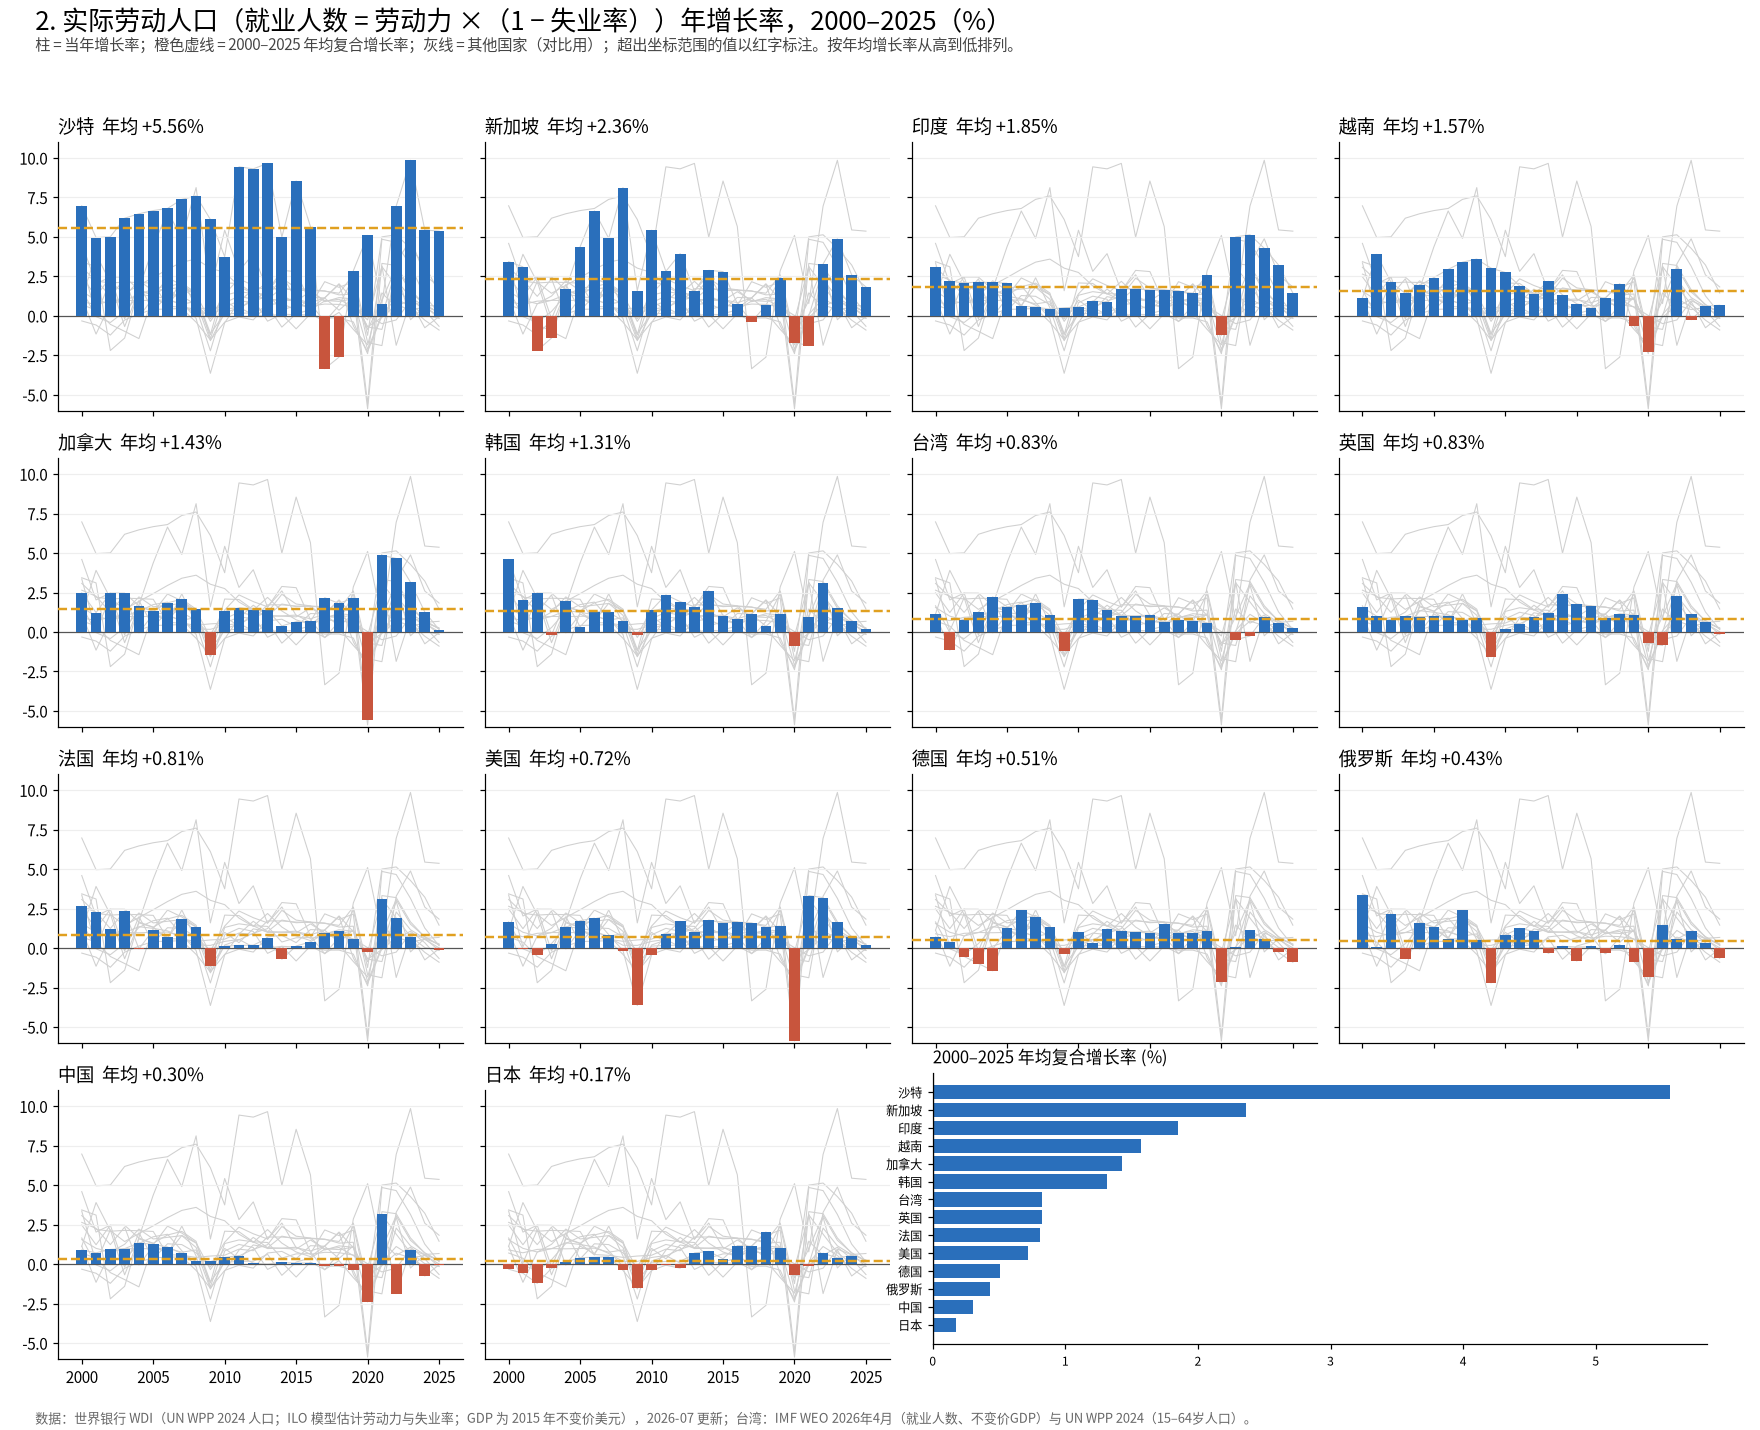
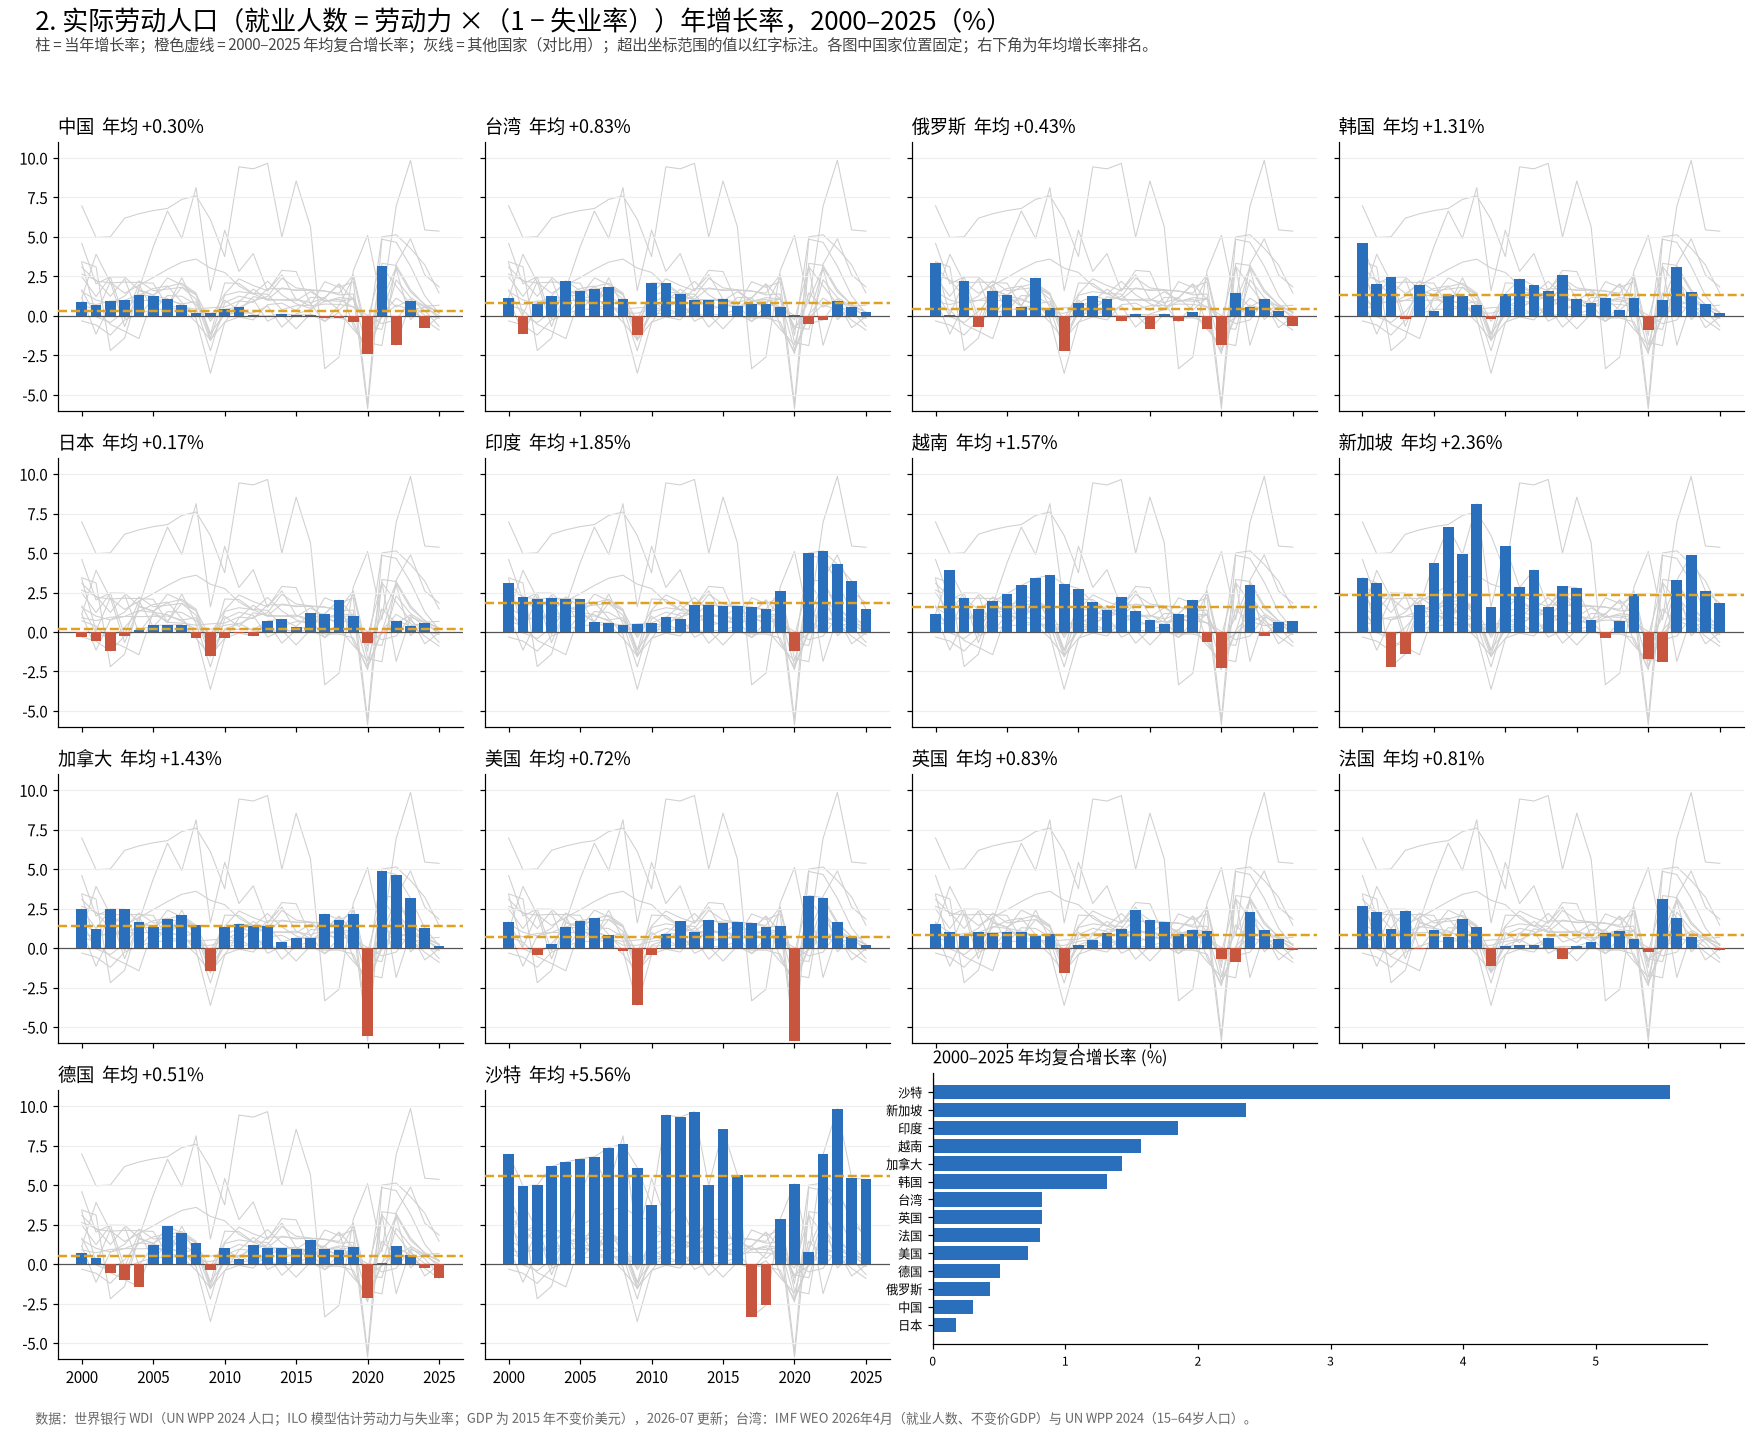
projects/261002: fix each country's panel position across all four charts

diff --git a/projects/261002-labor-and-gdp-per-worker/analyze.py b/projects/261002-labor-and-gdp-per-worker/analyze.py
@@ -66,7 +66,8 @@ YL = {"wap": (-3, 8), "emp": (-6, 11), "gdp_wap": (-10, 14), "gdp_emp": (-10, 14
 
 for key, title in CHARTS:
     g = growth[key]
-    order = sorted(ORDER, key=lambda c: -cagr[key][c])
+    order = ORDER  # fixed panel positions across all charts
+    ranked = sorted(ORDER, key=lambda c: -cagr[key][c])
     fig, axes = plt.subplots(4, 4, figsize=(16, 13), sharex=True, sharey=True)
     lo, hi = YL[key]
     for ax, c in zip(axes.flat, order):
@@ -89,7 +90,7 @@ for key, title in CHARTS:
         ax.axis("off")
     # summary bar in the last empty slots
     sax = fig.add_axes([0.53, 0.06, 0.44, 0.19])
-    v = pd.Series({C[c]: cagr[key][c] for c in order})
+    v = pd.Series({C[c]: cagr[key][c] for c in ranked})
     sax.barh(v.index[::-1], v.values[::-1], color=["#2a6fbb" if a >= 0 else "#c8553d" for a in v.values[::-1]])
     sax.axvline(0, color="#555", lw=0.8)
     sax.set_title("2000–2025 年均复合增长率 (%)", fontsize=11, loc="left")
@@ -97,7 +98,7 @@ for key, title in CHARTS:
     sax.spines[["top", "right"]].set_visible(False)
     fig.suptitle(title + "，2000–2025（%）", fontsize=17, x=0.02, ha="left", y=0.995)
     fig.text(0.02, 0.965, "柱 = 当年增长率；橙色虚线 = 2000–2025 年均复合增长率；灰线 = 其他国家（对比用）；"
-             "超出坐标范围的值以红字标注。按年均增长率从高到低排列。", fontsize=10, color="#444")
+             "超出坐标范围的值以红字标注。各图中国家位置固定；右下角为年均增长率排名。", fontsize=10, color="#444")
     fig.text(0.02, 0.005, SRC, fontsize=8.5, color="#666")
     fig.tight_layout(rect=(0, 0.02, 1, 0.96))
     fig.savefig(FIG / f"chart_{key}.png", dpi=110)

diff --git a/projects/261002-labor-and-gdp-per-worker/README.md b/projects/261002-labor-and-gdp-per-worker/README.md
@@ -44,7 +44,7 @@
 
 ## 图表
 
-每张图中，每个经济体一个小图，按年均增长率从高到低排列。柱 = 当年增长率；橙色虚线 = 2000–2025 年均复合增长率；灰线 = 其他经济体（对比背景）；超出坐标范围的值以红字标注。右下角为年均增长率排名。
+每张图中，每个经济体一个小图，四张图中各经济体的位置固定（按问题中列出的顺序），便于跨图对照。柱 = 当年增长率；橙色虚线 = 2000–2025 年均复合增长率；灰线 = 其他经济体（对比背景）；超出坐标范围的值以红字标注。右下角为年均增长率排名。
 
 ### 1. 劳动年龄人口（15–64 岁）年增长率
 
